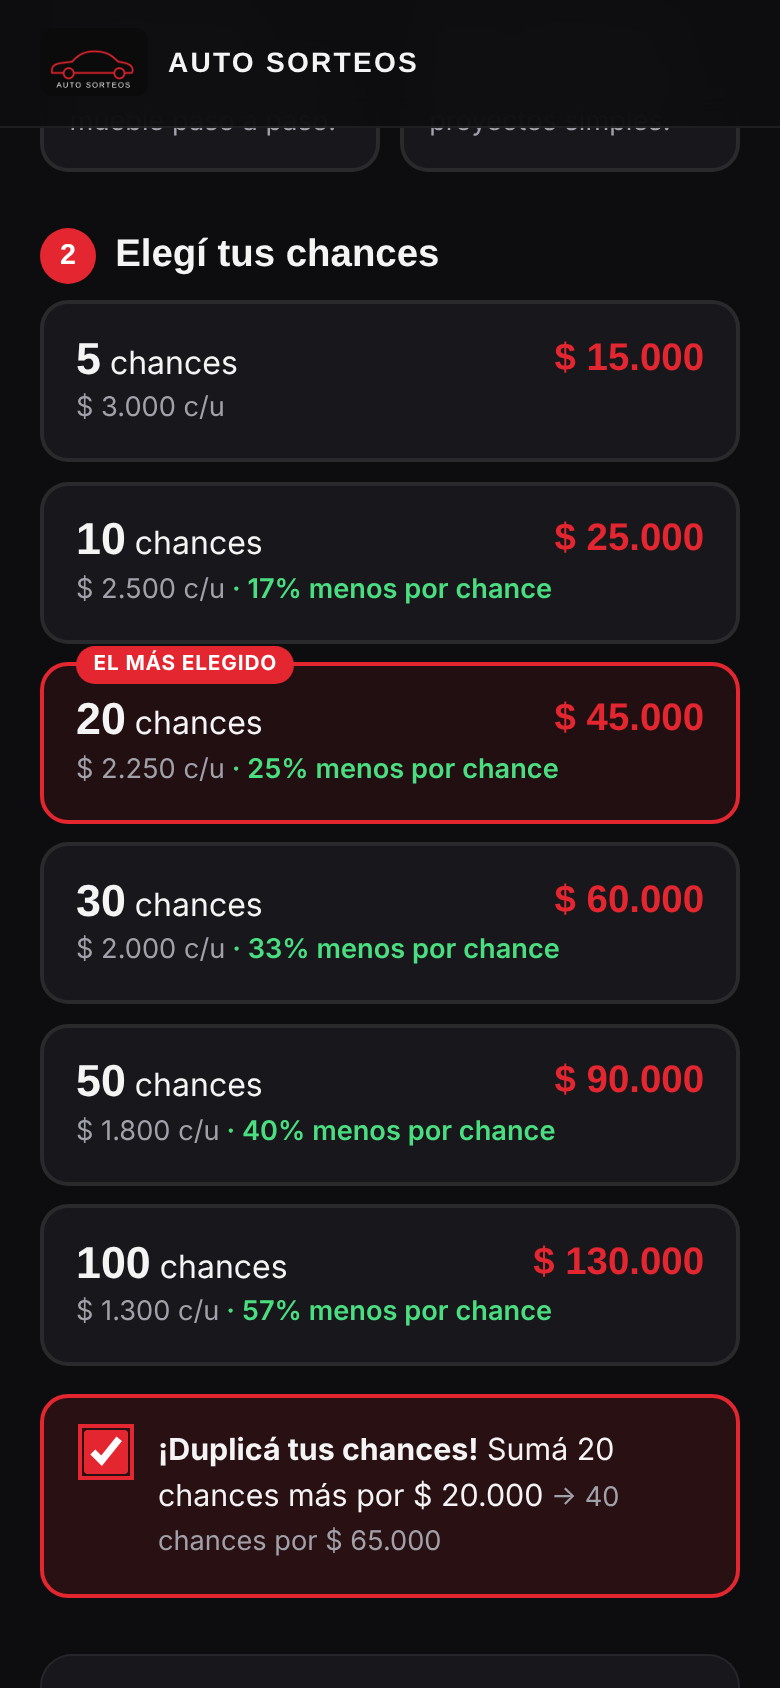
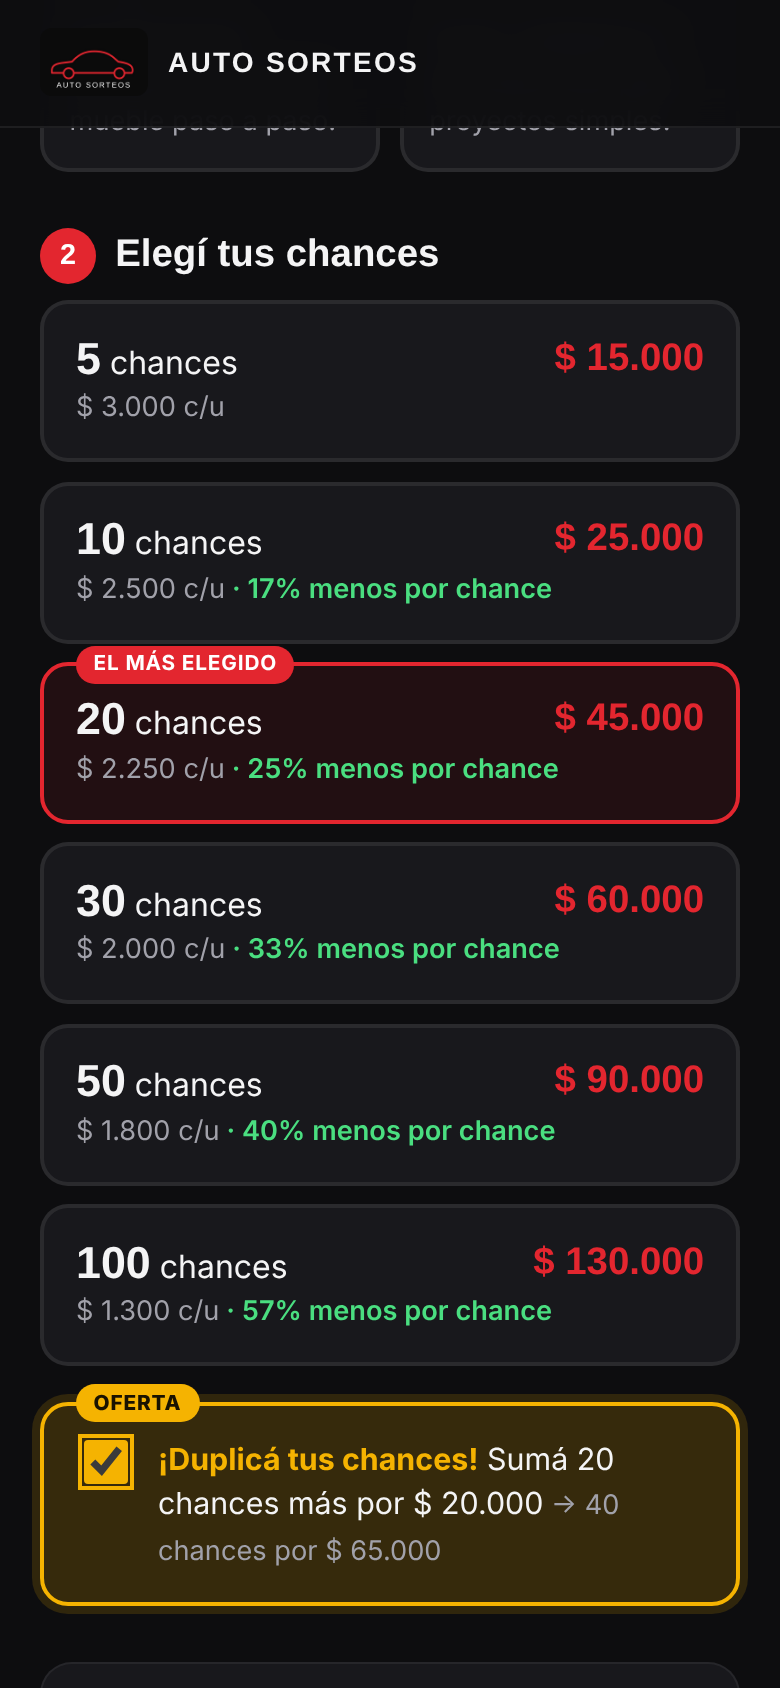
feat(web): highlight double offer with a configurable accent color

Changed region(s): [[0.0308, 0.8009, 0.9846, 0.955]]

diff --git a/frontend/src/styles.css b/frontend/src/styles.css
@@ -113,9 +113,12 @@ select { width: auto; margin: 0; }
 .pack-price { font: 800 1.2rem 'Archivo', sans-serif; color: var(--primary); }
 .pack-meta { grid-column: 1 / -1; color: var(--muted); }
 .save { color: #4ade80; font-weight: 600; }
-.double { display: flex; gap: .75rem; align-items: flex-start; margin: .9rem 0 0; padding: .9rem 1rem; border-radius: 14px; border: 2px dashed var(--primary); background: #e3262f10; color: var(--text); font-size: .95rem; cursor: pointer; }
-.double input { width: 22px; height: 22px; margin-top: .1rem; flex-shrink: 0; accent-color: var(--primary); }
-.double.on { border-style: solid; background: #e3262f22; }
+.double { position: relative; display: flex; gap: .75rem; align-items: flex-start; margin: 1.1rem 0 0; padding: 1rem 1rem .9rem; border-radius: 14px; border: 2px dashed var(--offer); background: color-mix(in srgb, var(--offer) 8%, transparent); color: var(--text); font-size: .95rem; cursor: pointer; transition: background .15s; }
+.double input:focus { outline-color: var(--offer); }
+.double input { width: 22px; height: 22px; margin-top: .1rem; flex-shrink: 0; accent-color: var(--offer); }
+.double strong { color: var(--offer); }
+.double-tag { position: absolute; top: -.65rem; left: 1rem; background: var(--offer); color: var(--offerText); font-size: .65rem; font-weight: 800; padding: .1rem .55rem; border-radius: 99px; text-transform: uppercase; letter-spacing: .04em; }
+.double.on { border-style: solid; background: color-mix(in srgb, var(--offer) 18%, transparent); box-shadow: 0 0 0 4px color-mix(in srgb, var(--offer) 15%, transparent); }
 .summary { background: var(--bg); border-radius: 12px; padding: .8rem 1rem; margin: .5rem 0 1rem; display: grid; gap: .35rem; font-size: .92rem; }
 .summary .total { border: 0; padding: .4rem 0 0; margin: .3rem 0 0; border-top: 1px solid #ffffff15; }
 .sales .progress { margin-top: .5rem; }

diff --git a/frontend/src/pages/RafflePage.js b/frontend/src/pages/RafflePage.js
@@ -123,6 +123,7 @@ export default function RafflePage() {
 
             {pack?.double && (
               <label className={`double ${double ? 'on' : ''}`}>
+                <span className="double-tag">Oferta</span>
                 <input type="checkbox" checked={double} onChange={(e) => setDouble(e.target.checked)} />
                 <span>
                   <strong>¡Duplicá tus chances!</strong> Sumá {pack.chances} chances más por {money(pack.double.doubleExtra)}

diff --git a/frontend/src/brand.js b/frontend/src/brand.js
@@ -15,6 +15,8 @@ const brand = {
     surface: '#18181c',
     text: '#f4f4f5',
     muted: '#a1a1aa',
+    offer: '#f5b301', // oferta "Duplicá tus chances": se diferencia del color principal
+    offerText: '#1a1300',
   },
   // Reemplazá estos links por los perfiles reales. Si dejás uno vacío (''), no se muestra.
   social: {
